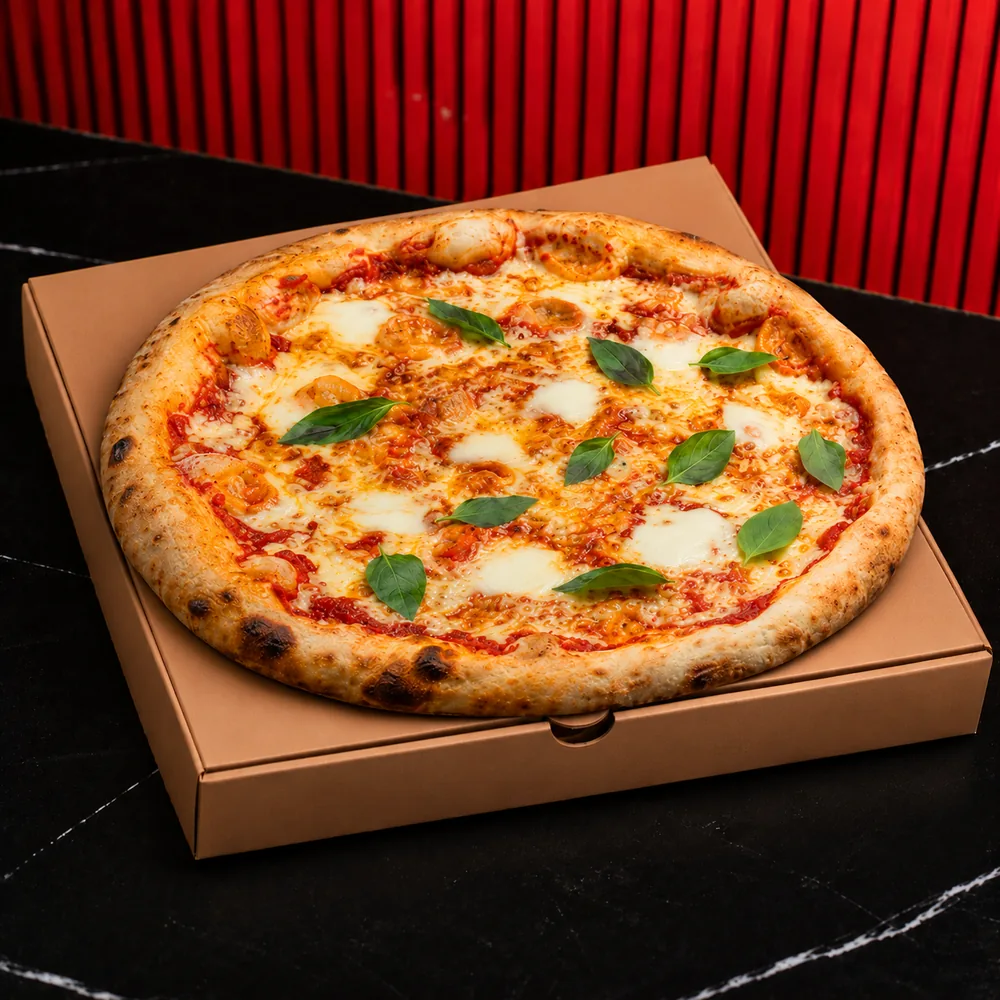
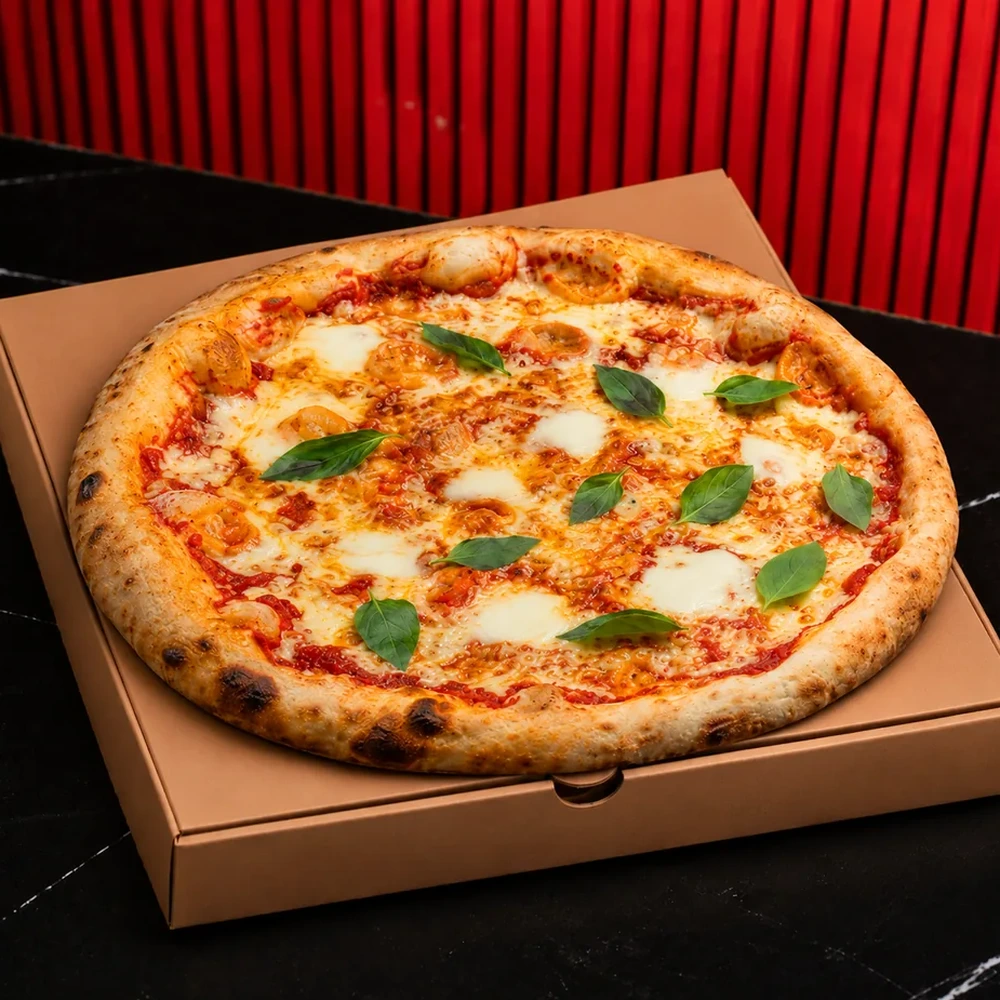
Add files via upload

diff --git a/index.html b/index.html
@@ -891,6 +891,15 @@ body{background:transparent!important;color:#fff}
 .cat h2{color:#F4EDDF!important}
 .cat h2::after{display:none!important}
 .cat .note,.combo-people-filter,.combo-people-filter *:not(button){color:#fff}
+/* Horarios: titulo amarillo y pregunta grande */
+#menu h2.sch-h{display:inline-block;background:#F2D88C;color:#111!important;padding:8px 18px 6px;border-radius:14px;line-height:1.05;font-size:38px!important;white-space:nowrap;margin:0 0 14px}
+#menu h2.sch-h.two{font-size:30px!important;line-height:1.1}
+@media(max-width:360px){#menu h2.sch-h{font-size:32px!important}}
+#combos .combo-people-filter.sch-pf{margin:14px 0 18px!important;gap:6px!important}
+#combos .combo-people-filter.sch-pf .pf-label{width:100%!important;margin:0 0 6px!important;font-size:26px!important;font-weight:700!important;opacity:1!important;color:#fff!important}
+#combos .combo-people-filter.sch-pf .pf-btn{min-height:44px!important;height:44px!important;padding:0 8px!important;font-size:13px!important;font-weight:700!important;white-space:nowrap;flex:1 1 auto;min-width:0!important}
+#combos .combo-people-filter.sch-pf .pf-btn{border-radius:14px!important}
+
 #combos .combo-people-filter{display:flex!important;align-items:center;flex-wrap:wrap;gap:8px;margin:8px 0 16px}
 #combos .combo-people-filter .pf-label{width:auto!important;margin:0 6px 0 0!important;font-size:13px;font-weight:500!important;opacity:.92;color:#F4EDDF!important}
 #combos .pf-icon{display:none!important}
@@ -3062,6 +3071,63 @@ loadAvailability();
 setInterval(loadAvailability, 5000);
 document.addEventListener("visibilitychange", () => { if (!document.hidden) loadAvailability(); });
 window.addEventListener("focus", loadAvailability);
+
+
+/* Horarios (hora de Chile): la carta destaca distinto segun dia y hora. Los horarios se editan en Admin > Horarios. Prueba: agregar ?h=mar-13 al link. */
+(function(){
+  var SITE = "online", DEFS = {"local":[{"id":"martes","on":true,"tag":"Promo del martes","msg":"HOY: SLICES|50% DCTO.","days":[2],"from":"00:00","to":"24:00","first":"pizzas","then":"pastas","top":[],"ban":"martes","slice":true},{"id":"almuerzo","on":true,"tag":"Almuerzo","msg":"PIDE PASTAS","days":[0,1,2,3,4,5,6],"from":"12:00","to":"17:00","first":"combos","then":"pastas","top":["combo-del-don","combo-duo-del-don"],"ban":"pasta-familia","slice":false},{"id":"resto","on":true,"tag":"Resto del día","msg":"PIDE UN COMBO","days":[0,1,2,3,4,5,6],"from":"00:00","to":"24:00","first":"combos","then":"pizzas","top":[],"ban":"pesto","slice":false}],"online":[{"id":"martes","on":false,"tag":"Promo del martes","msg":"HOY: MARTES","days":[2],"from":"00:00","to":"24:00","first":"combos","then":"pizzas","top":[],"ban":"familiar","slice":false},{"id":"almuerzo","on":true,"tag":"Almuerzo","msg":"PIDE UN COMBO","days":[0,1,2,3,4,5,6],"from":"12:00","to":"17:00","first":"combos","then":"pizzas","top":["combo-del-don","combo-famiglia","combo-duo-del-don","combo-doble-capo","promo-alfredo","combo-complices"],"ban":"pastas","slice":false},{"id":"resto","on":true,"tag":"Resto del día","msg":"PIDE UN COMBO","days":[0,1,2,3,4,5,6],"from":"00:00","to":"24:00","first":"combos","then":"pizzas","top":["combo-famiglia","combo-del-don","combo-doble-capo","combo-duo-del-don","combo-complices","promo-alfredo"],"ban":"familiar","slice":false}]}, DEF = DEFS[SITE], KEY = "mafia_sched_" + SITE;
+  var DIAS = ["dom","lun","mar","mie","jue","vie","sab"];
+  var SEQ = SITE === "local" ? ["pasta-familia","pesto","familiar","slice","martes"] : ["pastas","familiar","padrinos"];
+  function when(){
+    var q = (location.search.match(/[?&]h=([a-z]{3})-([0-9]{1,2})/) || []);
+    if (q[1] && DIAS.indexOf(q[1]) > -1) return { d:DIAS.indexOf(q[1]), m:(+q[2]) * 60 };
+    var o = {}; new Intl.DateTimeFormat("en-US", { timeZone:"America/Santiago", weekday:"short", hour:"numeric", minute:"numeric", hour12:false }).formatToParts(new Date()).forEach(function(x){ o[x.type] = x.value; });
+    return { d:["Sun","Mon","Tue","Wed","Thu","Fri","Sat"].indexOf(o.weekday), m:((+o.hour) % 24) * 60 + (+o.minute) };
+  }
+  function mins(s){ var p = String(s || "0:0").split(":"); return (+p[0]) * 60 + (+p[1] || 0); }
+  function pick(rules, w){
+    for (var i = 0; i < rules.length; i++){ var r = rules[i];
+      if (!r || r.on === false || !r.days || r.days.indexOf(w.d) < 0) continue;
+      if (w.m >= mins(r.from) && w.m < mins(r.to)) return r; }
+    return null;
+  }
+  function bkey(a){
+    var im = a.querySelector("img"), s = (im && im.getAttribute("src")) || "";
+    return s.indexOf("pasta-familia") > -1 ? "pasta-familia" : s.indexOf("nuevas-pastas") > -1 ? "pastas" : s.indexOf("pesto") > -1 ? "pesto" : s.indexOf("padrinos") > -1 ? "padrinos" : s.indexOf("familiar") > -1 ? "familiar" : s.indexOf("slice") > -1 ? "slice" : s.indexOf("martes") > -1 ? "martes" : "otro";
+  }
+  function apply(rules){
+    try{
+      var S = pick(rules, when()), menu = document.getElementById("menu"); if (!S || !menu) return;
+      var pz = S.then === "pastas" ? ["nuestras-pastas","pizzas"] : ["pizzas","nuestras-pastas"];
+      var ord = [S.first, "combos"].concat(pz, ["entradas","toppings","bebidas"]).filter(function(id, i, a){ return a.indexOf(id) === i; });
+      function rank(id){ var i = ord.indexOf(id); return i < 0 ? ord.indexOf("pizzas") + .5 : i; }
+      ord.forEach(function(id){ var e = document.getElementById(id); if (e && e.parentNode === menu) menu.appendChild(e); });
+      var ul = document.getElementById("nav");
+      if (ul) ord.forEach(function(id){ var a = ul.querySelector('a[href="#' + id + '"]'); if (a && a.parentNode.parentNode === ul) ul.appendChild(a.parentNode); });
+      if (typeof MENU !== "undefined" && MENU.sort) MENU.sort(function(a, b){ return rank(a.id) - rank(b.id); });
+      if (typeof setActive === "function" && typeof MENU !== "undefined"){ var v = MENU.filter(function(c){ return !c.hidden; })[0]; if (v) setActive(v.id); }
+      (S.top || []).slice().reverse().forEach(function(id){ var c = document.querySelector('#combos .item[data-id="' + id + '"]'); if (c && c.parentNode) c.parentNode.prepend(c); });
+      var first = document.getElementById(S.first), h = first && first.querySelector("h2"), parts = String(S.msg || "").split("|");
+      if (h && parts[0]){ h.textContent = ""; parts.forEach(function(t, i){ if (i) h.appendChild(document.createElement("br")); h.appendChild(document.createTextNode(t)); }); h.classList.add("sch-h"); if (parts.length > 1) h.classList.add("two"); }
+      if (S.first === "combos"){ var pf = document.querySelector("#combos .combo-people-filter"); if (pf){ pf.classList.add("sch-pf"); var l = pf.querySelector(".pf-label"); if (l){ var sv = l.querySelector("svg"); l.textContent = "¿Cuántas personas son?"; if (sv) sv.style.display = "none"; } var al = pf.querySelector('[data-people-filter="all"]'); if (al) al.textContent = "Todos"; } }
+      var tr = document.getElementById("mafiaTrack");
+      if (tr && S.ban){ var order = [S.ban].concat(SEQ); var sl = [].slice.call(tr.children);
+        sl.sort(function(a, b){ var x = order.indexOf(bkey(a)), y = order.indexOf(bkey(b)); return (x < 0 ? 99 : x) - (y < 0 ? 99 : y); });
+        sl.forEach(function(a, i){ a.classList.toggle("on", i === 0); tr.appendChild(a); }); var sn = tr.style.scrollSnapType; tr.style.scrollSnapType = "none"; tr.scrollLeft = 0; void tr.offsetWidth; tr.style.scrollSnapType = sn; }
+      if (S.slice){ var sw = document.querySelector(".sw2"); if (sw && sw.getAttribute("aria-checked") === "true") sw.click(); }
+    }catch(e){ if (window.console) console.warn("horarios", e); }
+  }
+  var cached = null; try { cached = JSON.parse(localStorage.getItem(KEY)); } catch(e){}
+  var rules = (cached && cached.length) ? cached : DEF;
+  apply(rules);
+  try{
+    fetch("/.netlify/functions/schedule?site=" + SITE + "&t=" + Date.now(), { cache:"no-store" }).then(function(r){ return r.ok ? r.json() : null; }).then(function(d){
+      if (!d) return; var next = (d.rules && d.rules.length) ? d.rules : null, a = JSON.stringify(rules), b = JSON.stringify(next || DEF);
+      try { if (next) localStorage.setItem(KEY, JSON.stringify(next)); else localStorage.removeItem(KEY); } catch(e){}
+      if (a !== b){ try { if (!sessionStorage.getItem(KEY + "_r")){ sessionStorage.setItem(KEY + "_r", "1"); location.reload(); } } catch(e){} }
+    }).catch(function(){});
+  }catch(e){}
+})();
 
 
 /* ---------- Preview: carrusel + popup promocional ---------- */

diff --git a/local-defaults.js b/local-defaults.js
@@ -19,7 +19,7 @@ const LOCAL_DEFAULTS = {
     pepperoni: { price:5490, img:"/fotos/local/pepperoni.webp?v=2", img2:"/fotos/local/slice-pepperoni.webp", sub:"Familiar con palitos y bebida: $29.990" },
     "pollo-bbq": { price:5490, img:"/fotos/local/pollo-bbq.webp?v=2", img2:"/fotos/local/slice-pollo-bbq.webp", sub:"Familiar con palitos y bebida: $29.990" },
     napolitana: { price:5490, img:"/fotos/local/napolitana.webp?v=2", img2:"/fotos/local/slice-napolitana.webp", sub:"Familiar con palitos y bebida: $29.990" },
-    margarita: { price:4490, img:"/fotos/local/margarita.webp?v=2", img2:"/fotos/local/slice-margarita.webp", sub:"Familiar con palitos y bebida: $24.990" },
+    margarita: { price:4490, img:"/fotos/local/margarita.webp?v=3", img2:"/fotos/local/slice-margarita.webp", sub:"Familiar con palitos y bebida: $24.990" },
     ajillo: { price:5490, img:"/fotos/local/ajillo.webp?v=2", img2:"/fotos/local/slice-ajillo.webp", sub:"Familiar con palitos y bebida: $29.990" },
     funghi: { price:4490, img:"/fotos/local/funghi.webp?v=2", img2:"/fotos/local/slice-funghi.webp", sub:"Familiar con palitos y bebida: $24.990" },
     "np-mechada-mafia": { img:"/fotos/local/np-mechada-mafia.webp?v=2" },
@@ -43,22 +43,22 @@ const LOCAL_DEFAULTS = {
   /* Tarjetas que se abren con las variedades a escoger (solo se muestran, no se compran desde aqui) */
   options: {
     "l-slice-bebida": { noun:"slices", title:"ELIGE TU SLICE", items:[
-      { n:"Margarita", img:"/fotos/local/slice-margarita.webp", p:"$4.990" }, { n:"Funghi", img:"/fotos/local/slice-funghi.webp", p:"$4.990" },
-      { n:"Tony Pepperoni", img:"/fotos/local/slice-pepperoni.webp", p:"$5.990" }, { n:"Il Traditore", img:"/fotos/local/slice-pollo-bbq.webp", p:"$5.990" },
-      { n:"Napolitana", img:"/fotos/local/slice-napolitana.webp", p:"$5.990" }, { n:"Al Ajillo Boss", img:"/fotos/local/slice-ajillo.webp", p:"$5.990" } ] },
+      { n:"Margarita", d:"Salsa Pomodoro New York, Queso Mozzarella y Albahaca Fresca.", img:"/fotos/local/slice-margarita.webp", p:"$4.990" }, { n:"Funghi", d:"Champiñones y Callampas Deshidratadas, Salsa Bechamel, Queso Mozzarella, Queso Parmigiano y Perejil Fresco.", img:"/fotos/local/slice-funghi.webp", p:"$4.990" },
+      { n:"Tony Pepperoni", d:"Pepperoni Americano Ultradelgado, Salsa Pomodoro New York y Queso Mozzarella.", img:"/fotos/local/slice-pepperoni.webp", p:"$5.990" }, { n:"Il Traditore", d:"Pollo BBQ, Tocino, Cebolla Morada, Salsa BBQ y Queso Mozzarella.", img:"/fotos/local/slice-pollo-bbq.webp", p:"$5.990" },
+      { n:"Napolitana", d:"Jamón, Tomate, Aceitunas de la Zona, Salsa Pomodoro New York, Queso Mozzarella y Orégano.", img:"/fotos/local/slice-napolitana.webp", p:"$5.990" }, { n:"Al Ajillo Boss", d:"Camarones al Ajillo, Pimentón Rojo, Salsa Pomodoro New York, Queso Mozzarella y Perejil Fresco.", img:"/fotos/local/slice-ajillo.webp", p:"$5.990" } ] },
     "combo-del-don": { noun:"opciones", title:"ELIGE TU FETUCCINI", items:[
-      { n:"Fetuccini Alfredo", img:"/combo-alfredo.webp", p:"$7.990" },
-      { n:"Bolognesa con Albóndigas", img:"/fotos/local/combo-del-don.webp", p:"$9.990" },
-      { n:"Pesto con Pollo Gravy", img:"/fotos/local/pesto-pollo-gravy.webp", p:"$9.990" } ] },
+      { n:"Fetuccini Alfredo", d:"Fetuccini en salsa Alfredo, con Bebida Mini.", img:"/combo-alfredo.webp", p:"$7.990" },
+      { n:"Bolognesa con Albóndigas", d:"Fetuccini con salsa Bolognesa, 3 albóndigas y Parmigiano, con Bebida Mini.", img:"/fotos/local/combo-del-don.webp", p:"$9.990" },
+      { n:"Pesto con Pollo Gravy", d:"Fetuccini al pesto con Pollo Gravy, con Bebida Mini.", img:"/fotos/local/pesto-pollo-gravy.webp", p:"$9.990" } ] },
     "combo-complices": { noun:"slices", title:"ELIGE TUS SLICES", items:[
-      { n:"Tony Pepperoni", img:"/fotos/local/slice-pepperoni.webp" }, { n:"Funghi", img:"/fotos/local/slice-funghi.webp" },
-      { n:"Il Traditore", img:"/fotos/local/slice-pollo-bbq.webp" }, { n:"Margarita", img:"/fotos/local/slice-margarita.webp" } ] },
-    "combo-duo-del-don": { noun:"pastas", title:"ELIGE TUS PASTAS", items:[ { n:"Bolognesa con Albóndigas", img:"/np-bolognesa-albondigas.webp" }, { n:"Pesto Pollo Limón", img:"/np-pesto-lemon.webp" }, { n:"Alfredo Pollo Gravy", img:"/np-alfredo-gravy.webp" } ] },
-    "l-pasta-familia": { noun:"pastas", title:"ELIGE TUS PASTAS", items:[ { n:"Bolognesa con Albóndigas", img:"/np-bolognesa-albondigas.webp" }, { n:"Pesto Pollo Limón", img:"/np-pesto-lemon.webp" }, { n:"Alfredo Pollo Gravy", img:"/np-alfredo-gravy.webp" } ] },
+      { n:"Tony Pepperoni", d:"Pepperoni Americano Ultradelgado, Salsa Pomodoro New York y Queso Mozzarella.", img:"/fotos/local/slice-pepperoni.webp" }, { n:"Funghi", d:"Champiñones y Callampas Deshidratadas, Salsa Bechamel, Queso Mozzarella, Queso Parmigiano y Perejil Fresco.", img:"/fotos/local/slice-funghi.webp" },
+      { n:"Il Traditore", d:"Pollo BBQ, Tocino, Cebolla Morada, Salsa BBQ y Queso Mozzarella.", img:"/fotos/local/slice-pollo-bbq.webp" }, { n:"Margarita", d:"Salsa Pomodoro New York, Queso Mozzarella y Albahaca Fresca.", img:"/fotos/local/slice-margarita.webp" } ] },
+    "combo-duo-del-don": { noun:"pastas", title:"ELIGE TUS PASTAS", items:[ { n:"Bolognesa con Albóndigas", d:"Fetuccini con salsa Bolognesa, 3 albóndigas y Parmigiano.", img:"/np-bolognesa-albondigas.webp" }, { n:"Pesto Pollo Limón", d:"Fetuccini al pesto con pollo Lemon Pepper.", img:"/np-pesto-lemon.webp" }, { n:"Alfredo Pollo Gravy", d:"Fetuccini en salsa Alfredo con pollo y gravy.", img:"/np-alfredo-gravy.webp" } ] },
+    "l-pasta-familia": { noun:"pastas", title:"ELIGE TUS PASTAS", items:[ { n:"Bolognesa con Albóndigas", d:"Fetuccini con salsa Bolognesa, 3 albóndigas y Parmigiano.", img:"/np-bolognesa-albondigas.webp" }, { n:"Pesto Pollo Limón", d:"Fetuccini al pesto con pollo Lemon Pepper.", img:"/np-pesto-lemon.webp" }, { n:"Alfredo Pollo Gravy", d:"Fetuccini en salsa Alfredo con pollo y gravy.", img:"/np-alfredo-gravy.webp" } ] },
     "l-familiar": { noun:"pizzas", title:"ELIGE TU PIZZA XXL", items:[
-      { n:"Margarita", img:"/fotos/local/margarita.webp", p:"$24.990" }, { n:"Funghi", img:"/fotos/local/funghi.webp", p:"$24.990" },
-      { n:"Tony Pepperoni", img:"/fotos/local/pepperoni.webp", p:"$29.990" }, { n:"Il Traditore", img:"/fotos/local/pollo-bbq.webp", p:"$29.990" },
-      { n:"Napolitana", img:"/fotos/local/napolitana.webp", p:"$29.990" }, { n:"Al Ajillo Boss", img:"/fotos/local/ajillo.webp", p:"$29.990" } ] }
+      { n:"Margarita", d:"Salsa Pomodoro New York, Queso Mozzarella y Albahaca Fresca.", img:"/fotos/local/margarita.webp", p:"$24.990" }, { n:"Funghi", d:"Champiñones y Callampas Deshidratadas, Salsa Bechamel, Queso Mozzarella, Queso Parmigiano y Perejil Fresco.", img:"/fotos/local/funghi.webp", p:"$24.990" },
+      { n:"Tony Pepperoni", d:"Pepperoni Americano Ultradelgado, Salsa Pomodoro New York y Queso Mozzarella.", img:"/fotos/local/pepperoni.webp", p:"$29.990" }, { n:"Il Traditore", d:"Pollo BBQ, Tocino, Cebolla Morada, Salsa BBQ y Queso Mozzarella.", img:"/fotos/local/pollo-bbq.webp", p:"$29.990" },
+      { n:"Napolitana", d:"Jamón, Tomate, Aceitunas de la Zona, Salsa Pomodoro New York, Queso Mozzarella y Orégano.", img:"/fotos/local/napolitana.webp", p:"$29.990" }, { n:"Al Ajillo Boss", d:"Camarones al Ajillo, Pimentón Rojo, Salsa Pomodoro New York, Queso Mozzarella y Perejil Fresco.", img:"/fotos/local/ajillo.webp", p:"$29.990" } ] }
   },
   notes: { pizzas: "Pizzas XXL o Slices", combos: "" },
   /* Banners de arriba. "to": #seccion, o #item:ID (lleva a ese plato), o #item:ID:slice (idem, con la carta en Slice) */

diff --git a/menu-data.js b/menu-data.js
@@ -73,7 +73,7 @@ const MENU = [
       price:14990, img:"/napolitana.webp", combo:{ all:{ extra:5000, desc:"+ Palitos de ajo + Bebida 1.5 L" } },
       suggest:{ ids:["top-bbq", "top-pomodoro", "top-parmigiano"] } },
     { id:"margarita", name:"Margarita", desc:"Salsa Pomodoro New York, Queso Mozzarella y Albahaca Fresca.",
-      price:14990, img:"/margarita.webp", combo:{ all:{ extra:5000, desc:"+ Palitos de ajo + Bebida 1.5 L" } },
+      price:14990, img:"/margarita.webp?v=2", combo:{ all:{ extra:5000, desc:"+ Palitos de ajo + Bebida 1.5 L" } },
       suggest:{ ids:["top-bbq", "top-pomodoro", "top-parmigiano"] } },
     { id:"ajillo", name:"Al Ajillo Boss", desc:"Camarones al Ajillo, Pimentón Rojo, Salsa Pomodoro New York, Queso Mozzarella y Perejil Fresco.",
       price:16990, img:"/ajillo.webp", combo:{ all:{ extra:5000, desc:"+ Palitos de ajo + Bebida 1.5 L" } },
